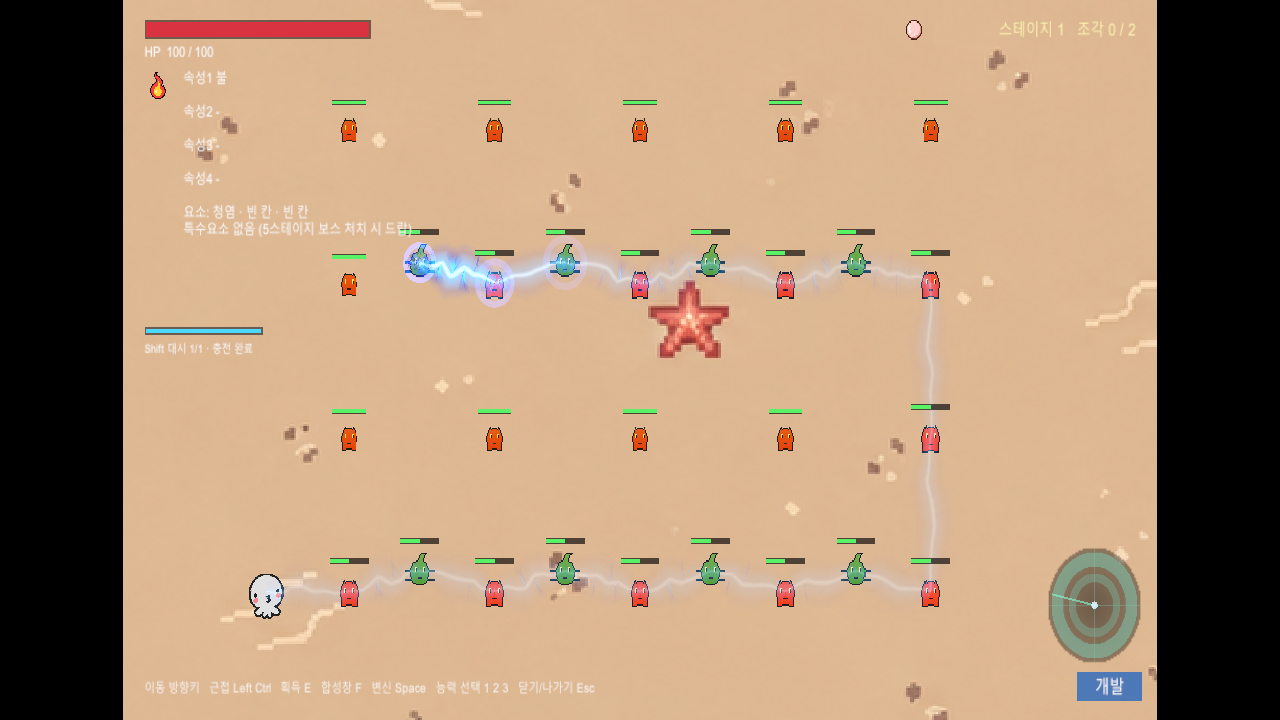
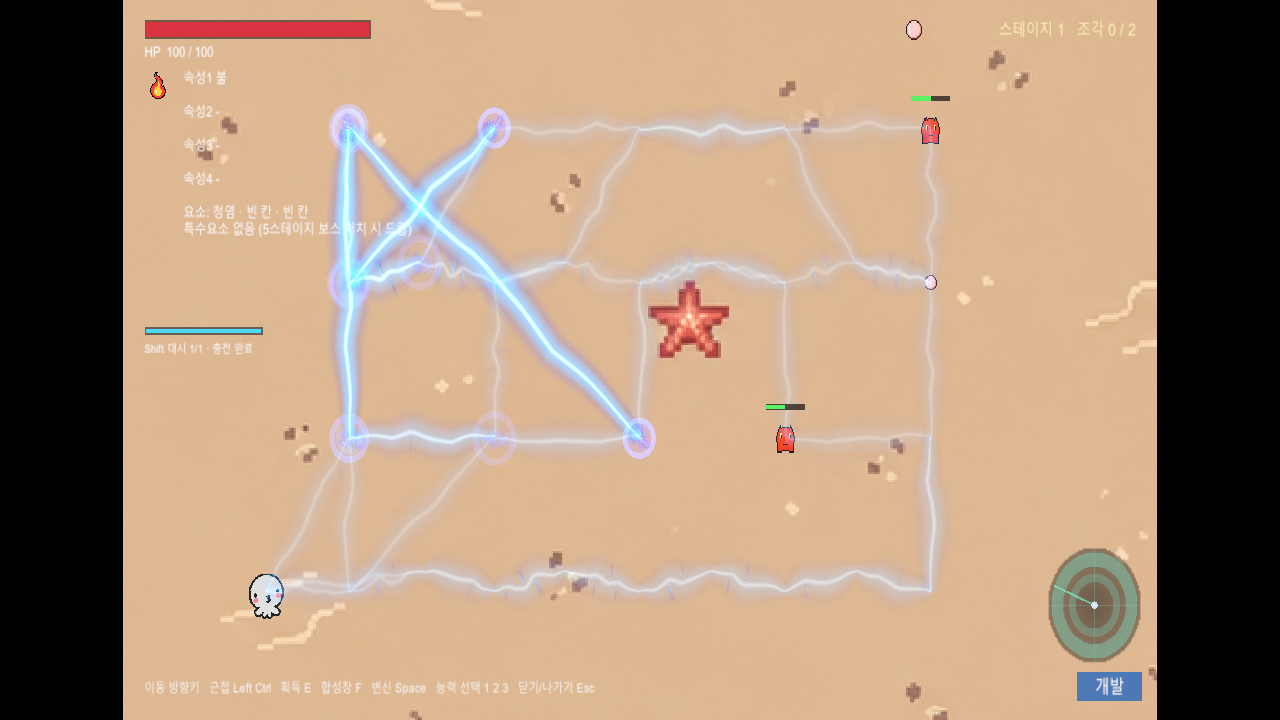
속성: 청염 기본 3갈래와 강화별 갈래 증가 적용

Changed region(s): [[0.2188, 0.1222, 0.75, 0.8556]]

diff --git a/Source/문어_유한맵/Assets/Scripts/Net/CoopSystemChecks.cs b/Source/문어_유한맵/Assets/Scripts/Net/CoopSystemChecks.cs
@@ -553,6 +553,25 @@ namespace OctopusSurvivors
             p.transform.position = Vector3.zero; p.NetPos.Value = Vector2.zero;
             p.UpElemRank.Value = 0; p.SkillLevels.Value = 0;
             p.Combo.Value = (byte)ComboId.BlueFlame;
+            Debug.Log("BLUE FLAME CHECKS BEGIN");
+            for (int rank=0;rank<=5;rank++)
+            {
+                ResetField(s);
+                p.SkillLevels.Value=(ulong)rank << (((int)UpgradeId.BlueFlameMastery-10)*3);
+                for(int i=0;i<8;i++)
+                    Target(s,new Vector2(Mathf.Cos(i*Mathf.PI/4),Mathf.Sin(i*Mathf.PI/4))*(2f+i*.1f));
+                s.CastPlannedCombo(p,ComboId.BlueFlame);
+                var branches=Actors(s).FindAll(a=>a.Kind==ActorKind.ChainEmitter);
+                Check(branches.Count==3+rank,"blue flame branch count at rank "+rank);
+                var starts=new HashSet<ushort>();
+                foreach(var branch in branches)
+                {
+                    Call(s,"TickPlannedAbility",branch,.001f);
+                    foreach(var id in branch.HitTargets) starts.Add(id);
+                }
+                Check(starts.Count==branches.Count,"branches start on distinct enemies at rank "+rank);
+            }
+            p.SkillLevels.Value=0;
             foreach (float step in new[] { 1f/30, 1f/60, 1f/144, .25f })
             {
                 ResetField(s);
@@ -630,7 +649,8 @@ namespace OctopusSurvivors
                 var enemy=Target(s,new Vector2(-5.3f+(i%4)*3.5f,-4.1f+(i/4)*6f));enemy.Element=ElementId.Grass;enemy.Hp=enemy.MaxHp=50f;
             }
             s.CastPlannedCombo(p,ComboId.BlueFlame);
-            var preview = Actors(s).Find(a=>a.Kind==ActorKind.ChainEmitter);
+            var previewEmitters = Actors(s).FindAll(a=>a.Kind==ActorKind.ChainEmitter);
+            var preview = previewEmitters[0];
             var camera=Camera.main;
             var follower=camera.GetComponent<PlayerCameraFollow>();if(follower!=null)follower.enabled=false;
             camera.orthographicSize=7f;camera.transform.position=new Vector3(0,0,-10);
@@ -639,7 +659,8 @@ namespace OctopusSurvivors
             for(int frame=0;frame<132;frame++)
             {
                 const float dt=1f/60;
-                if(!preview.Dead)Call(s,"TickPlannedAbility",preview,dt);
+                foreach(var branch in previewEmitters)
+                    if(!branch.Dead)Call(s,"TickPlannedAbility",branch,dt);
                 foreach(var actor in Actors(s)) if(actor.Kind==ActorKind.ChainArc)
                 {actor.Age+=dt;actor.Life-=dt;if(actor.Life<=0)actor.Dead=true;}
                 Call(s,"RenderLocal");

diff --git a/Source/문어_유한맵/Assets/Scripts/Elements/PlannedAbilities.cs b/Source/문어_유한맵/Assets/Scripts/Elements/PlannedAbilities.cs
@@ -104,7 +104,7 @@ namespace OctopusSurvivors
                     }
                     break;
                 case ComboId.BlueFlame:
-                    for (int i = 0; i < (rank == 5 ? 2 : 1); i++)
+                    for (int i = 0; i < Mathf.Clamp(UpgradeTuning.Data.blueFlameBaseBranches + rank * UpgradeTuning.Data.blueFlameBranchesPerLevel, 1, 256); i++)
                     {
                         float chainLife = Mathf.Max(t.duration,
                             (Mathf.Max(1, UpgradeTuning.Data.blueFlameChainTargets) + 1) * Mathf.Max(.01f, UpgradeTuning.Data.chainInterval) + .2f);
@@ -300,8 +300,8 @@ namespace OctopusSurvivors
             { source.Pulse += Mathf.Max(.1f, UpgradeTuning.Data.blueFlameBurstInterval); return; }
             source.Pulse += Mathf.Max(.01f, UpgradeTuning.Data.chainInterval);
             candidates.Sort((a, b) => (a.Pos - source.Pos).sqrMagnitude.CompareTo((b.Pos - source.Pos).sqrMagnitude));
-            // The second mastery emitter starts from a different nearby target when possible.
-            var primary = candidates[source.SkillPhase == 1 && candidates.Count > 1 ? 1 : 0];
+            // Spread starting branches across nearby enemies, wrapping only when targets are scarce.
+            var primary = candidates[source.SkillPhase % candidates.Count];
             Vector2 center = primary.Pos;
             source.BlueFlameSplashTargets = new HashSet<ushort>();
             source.Anchor = center;

diff --git a/Source/문어_유한맵/Assets/Scripts/Core/Upgrades.cs b/Source/문어_유한맵/Assets/Scripts/Core/Upgrades.cs
@@ -149,7 +149,7 @@ namespace OctopusSurvivors
                 case UpgradeId.TreeMastery: return "나무 +1\n5레벨: 열매 생성 간격 대폭 감소";
                 case UpgradeId.LemonMastery: return "레몬 공격 +1회\n5레벨: 거대 레몬 바퀴 2개 추가";
                 case UpgradeId.FogMastery: return "확산 범위·피해 지속시간 증가\n5레벨: 모든 안개 피해 증가";
-                case UpgradeId.BlueFlameMastery: return $"최대 {UpgradeTuning.Data.blueFlameChainTargets}마리 연결 · 경로 주변 {UpgradeTuning.Data.blueFlameSplashDamageMultiplier * 100:0}% 피해 · 폭 +{UpgradeTuning.Data.blueFlameSplashRangePerLevel:0.##}\n5레벨: 별도 번개 1개 추가";
+                case UpgradeId.BlueFlameMastery: return $"기본 {UpgradeTuning.Data.blueFlameBaseBranches}갈래 · 강화마다 +{UpgradeTuning.Data.blueFlameBranchesPerLevel}갈래\n갈래마다 최대 {UpgradeTuning.Data.blueFlameChainTargets}마리 연결 · 경로 주변 {UpgradeTuning.Data.blueFlameSplashDamageMultiplier * 100:0}% 피해 · 폭 +{UpgradeTuning.Data.blueFlameSplashRangePerLevel:0.##}";
                 default:
                     return string.Empty;
             }

diff --git a/Source/문어_유한맵/Assets/Scripts/Core/UpgradeTuning.cs b/Source/문어_유한맵/Assets/Scripts/Core/UpgradeTuning.cs
@@ -18,6 +18,8 @@ namespace OctopusSurvivors
         [Min(.03f)] public float chainInterval = .08f;
         [Min(0)] public float blueFlameSplashRangePerLevel = .3f;
         [Min(.1f)] public float blueFlameBurstInterval = .6f;
+        [Min(1)] public int blueFlameBaseBranches = 3;
+        [Min(0)] public int blueFlameBranchesPerLevel = 1;
         [Min(1)] public int blueFlameChainTargets = 20;
         [Min(.1f)] public float blueFlameVisualScale = 5f;
         [Range(1f, 4f)] public float blueFlameImpactIntensity = 1.5f;

diff --git a/docs/검증/README.md b/docs/검증/README.md
@@ -131,3 +131,5 @@ Relay 자동 검증에서만 사용하는 참가 코드 파일의 읽기/쓰기 
 - 같은 전투 프레임의 시각 배율 비교: [3배](host-balance-blueflame-size-3.png), [5배](host-balance-blueflame-size-5.png), [10배](host-balance-blueflame-size-10.png). 번개 폭·섬광·불씨 배율만 변경하고 캡처 직후 기본1로 복구했다. 피해 범위는 변경하지 않았다.
 - 적중점의 둥근 전기/청염 농도 [4종 확대 비교](blueflame-hit-comparison.png): A=1(현재), B=1.5, C=2, D=3. 같은 프레임·크기·카메라로 실제 Unity 렌더 후 동일 영역을 잘라 배치했다. blueFlameImpactIntensity는 촬영 후1로 복구했고 시각 배율도1 유지. Play Mode 검사는 PASS.
 - 최종 선택: 연결 번개5배/B농도1.5 적용. 몸 전기 효과는 몬스터 지름의1.15배, 원형 적중 링은1.55배까지 퍼지도록 연결 배율과 분리했다. 크기0.4/1.2 적의 몸 지름 비율3배 및 실제 적중 스프라이트 bounds 일치를 Unity Play Mode에서 확인했다. 최신 GIF와 전투 스틸은 이 선택값으로 갱신했다. 앞선 3/5/10 및 A~D 이미지는 이전 디자인의 비교 기록이다.
+
+- 2026-10-15 청염 갈래 성장: 기본3갈래, 강화1~5회에4/5/6/7/8갈래. Unity Play Mode에서 마스터리0~5 발동기 수와 시작 대상 분산12항목, 기존20연결/경로50%/몸 크기/렌더 검사를 모두 통과했다. 실제3갈래 동시 진행으로 GIF와 전투 스틸 갱신. 갈래별 판정은 독립적이므로 서로 다른 갈래가 같은 적에게 적중하면 피해가 각각 적용된다.

diff --git a/docs/구조/abilities/NOTES.md b/docs/구조/abilities/NOTES.md
@@ -1,5 +1,7 @@
 # 최근 변경
 
+- 2026-10-15: 청염 기본3갈래, 강화마다1갈래 추가(마스터리0~5: 3/4/5/6/7/8). 시작 대상은 갈래 번호로 나누어 선택하며 대상 부족 시 순환한다. 각 갈래 최대20마리/경로50% 피해와 5배/B농도 외형 유지. UpgradeTuning의 blueFlameBaseBranches/blueFlameBranchesPerLevel로 조절. Unity에서 전 단계 갈래 수 및 서로 다른 시작 대상 검사 PASS.
+
 - 2026-10-15: 사용자 선택 적용: 연결 번개5배, 적중 농도B(1.5). 적중 불꽃은 몬스터 몸 지름×1.15로 맞추고 원형 링은 몸 지름×1.55까지 확산한다. WorldView의 몸 크기 정보로 적중 외형을 정하며 번개 배율에서 분리했다. 작은/큰 적의 실제 렌더 bounds 검사를 포함한 Unity Play Mode PASS. 최신 GIF/전투 캡처 갱신.
 
 - 2026-10-15: 몬스터 몸의 청염 적중 불꽃 농도 비교(1/1.5/2/3)를 추가. blueFlameImpactIntensity로 원본 그림의 불투명도와 푸른 대비층만 조절하며 크기/연결선/피해는 유지. 같은 프레임 확대 비교를 촬영하고 기본 농도1로 복구했다. 사용자가 선택하기 전 기본 농도는 변경하지 않음.
